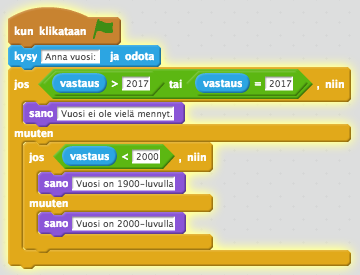
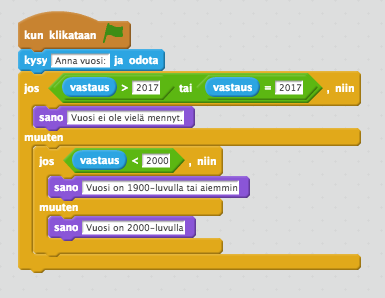
korjattu virhe

diff --git a/perusasiat.html b/perusasiat.html
@@ -331,14 +331,14 @@ Ohjelma siis toimii niin, että ensin kysytään käyttäjältä lukua ja tallen
 
       <h2 id="montaelselohkoa"> Monta else -lohkoa </h2>
       Edellisessä tehtävässä ohjelma tarkisti, onko käyttäjän antama vuosi mennyt vai ei. Nyt haluamme tehdä tarkempaa analyysiä, kuinka kaukana menneisyydessä annettu vuosiluku on.
-      Seuraavassa esimerkissä kerrotaan, onko vuosi mennyt, 2000-luvulla vai 1900-luvulla. Kopioi esimerkki ja kokeile sitä.
+      Seuraavassa esimerkissä kerrotaan, onko vuosi mennyt, 2000-luvulla vai 1900-luvulla tai aiemmin. Kopioi esimerkki ja kokeile sitä.
 </br></br>
 <pre>
 luku = int(input('Anna vuosi: '))
 if luku >= 2017:
     print('Vuosi ei ole vielä mennyt.')
 elif luku < 2000:
-    print('Vuosi on 1900-luvulla')
+    print('Vuosi on 1900-luvulla tai aiemmin')
 else:
     print('Vuosi on 2000-luvulla')
 </pre>
